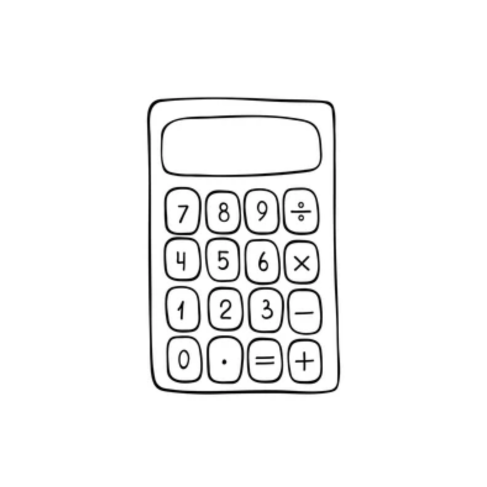
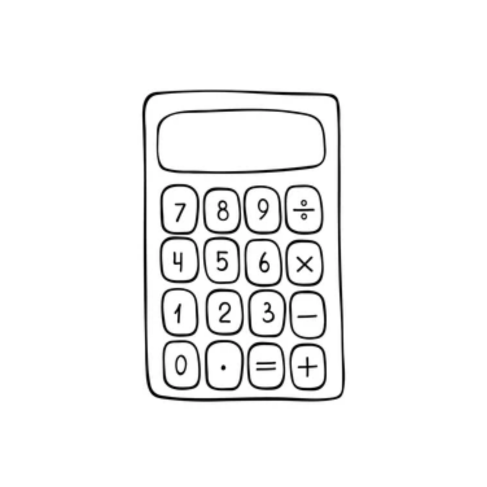
12-15 update 4
updated calculator image

Changed region(s): [[0.2772, 0.1848, 0.7084, 0.8316]]

diff --git a/index.html b/index.html
@@ -261,12 +261,12 @@
                                     <h3><a href = "#">My Website</a></h3>
                                     <p>Always being updated!</p>
                                 </div>
-                                <p>Version 1.0.5</p>
+                                <p>Version 1.0.6</p>
                             </div>
                         </div>
                     </div>
 
-                    
+
                     <div class = "col-lg-6 col-md-12 col-xs-12">
                         <div class = "team-item wow fadeInRight" data-wow-delay="0.4s">
                             <div class = "team-img">
